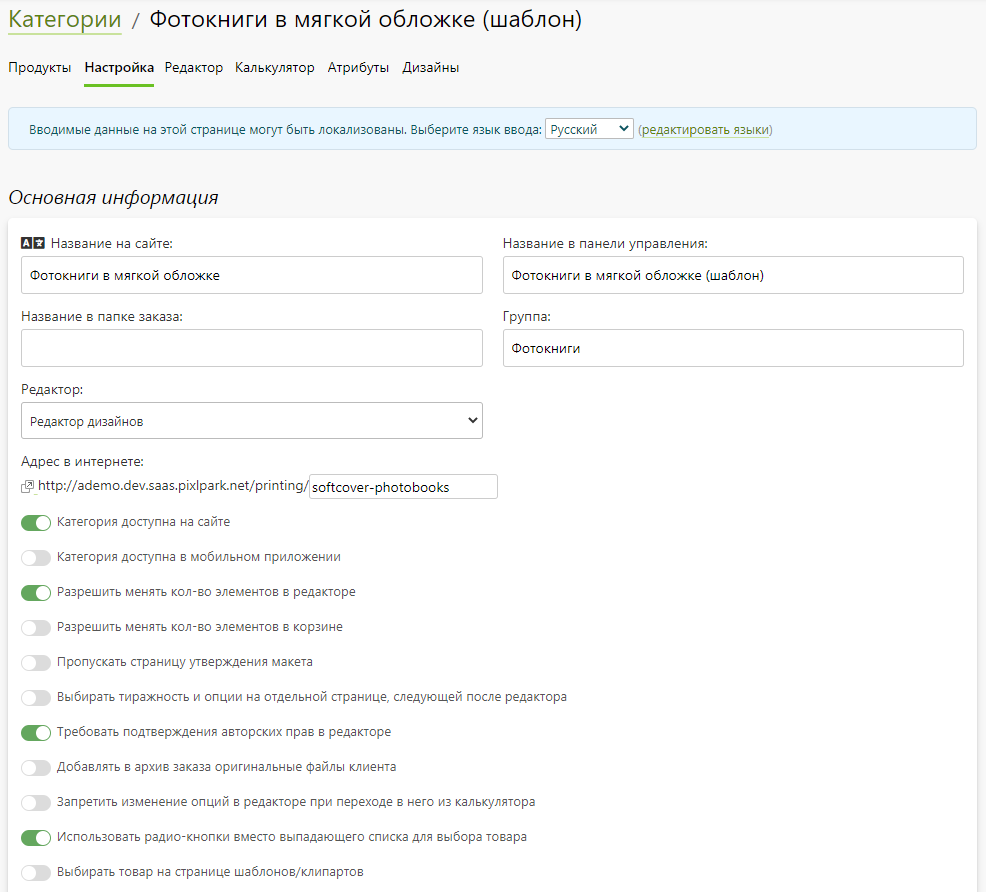
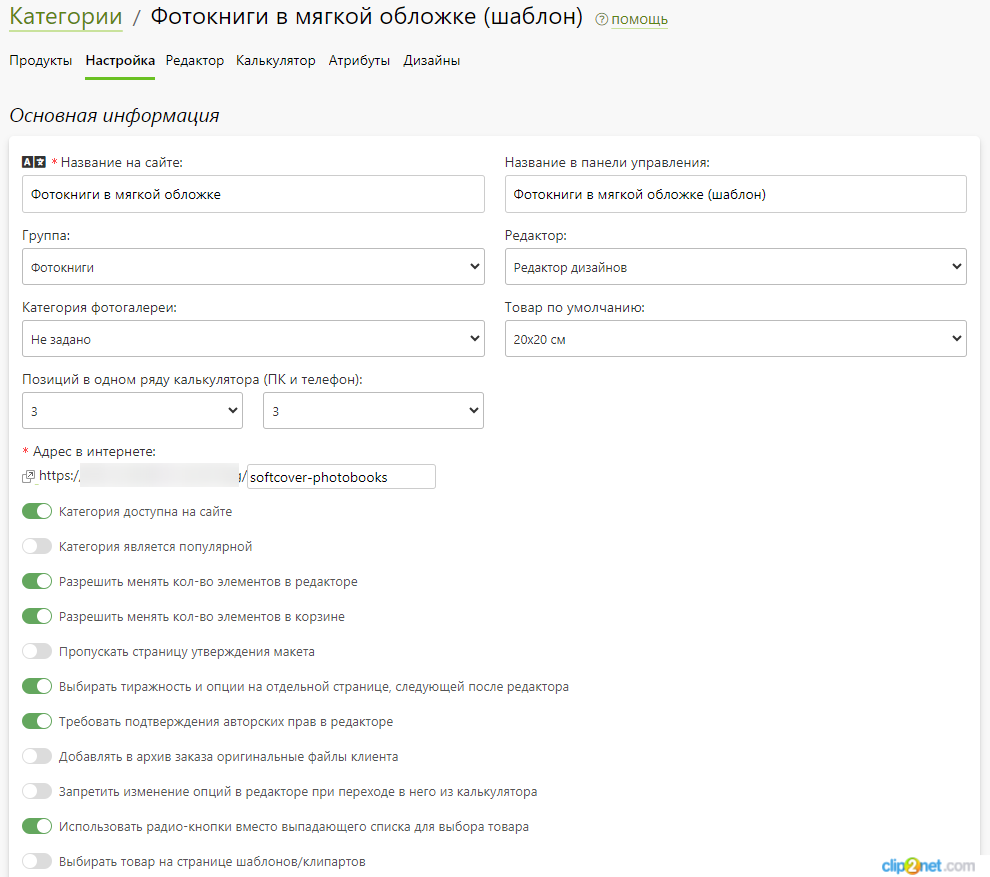
fix

diff --git a/docs/print/products.md b/docs/print/products.md
@@ -32,10 +32,11 @@ sidebar_position: 1
 * В данном разделе представлены основные настройки категории. Рассмотрим некоторых из них более детально.
 * __Название на сайте__ - название категории, которое используется при именовании позиции корзины и заказа. Также может использоваться в калькуляторе при отсутствии задания названия категории в его настройках.
 * __Название в панели управления__ - название категории в панели управления. В отличие от названия на сайте может содержать в себе еще способ приема заказа.
-* __Название в папке заказа__ - название категории (на латинице), которое может использоваться вместе "названия на сайте" при формировании названия папки элемента заказа. 
 * __Группа__ - название группы категорий, которое используется для фильтрации категорий на странице списка, а также для формирования в мобильном приложении экрана выбора группы товаров перед выбором категории.
 * __Редактор__ - онлайн-редактор для приема заказов на продукцию данной категории.
-* __Описание для мерча__ - текстовое описание, которое выводится на сайте в карточке мерча (продукта с готовым дизайнов)  при отсутствии аналогичной записи у продукта.
+* __Категория фотогалереи__ - категория фотогалереи категории.
+* __Товар по умолчанию__ - товар, который будет выбран по умолчанию в калькуляторе.
+* __Позиций в одном ряду калькулятора (ПК и телефон)__ - количество отображаемых позиций в одном ряду для ПК и телефонов.
 * __Адрес в интернете__ - адрес страницы карточки продукта на сайте; здесь задается уникальный идентификатор категории, который впоследствии будет участвовать в формирования уникального адреса страницы шаблонов, редактора и идентификатора калькулятора для данной категории. Допустимо использовать цифры `[0-9]`, латиницу в нижнем регистре `[a-z]`, нижнее подчеркивание `[_]`, дефис `[-]` и точку `[.]`.
 * ![](../_media/print/category-general.png)
 
